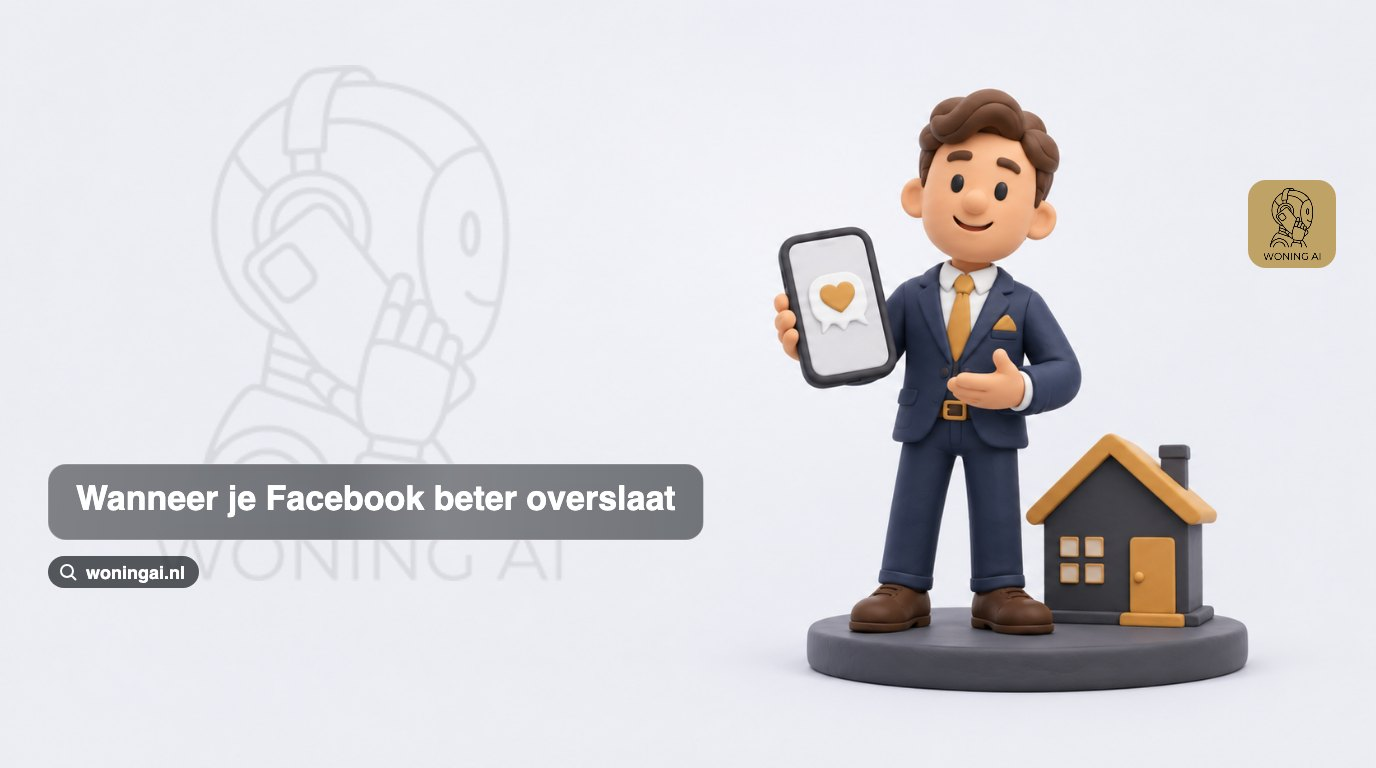
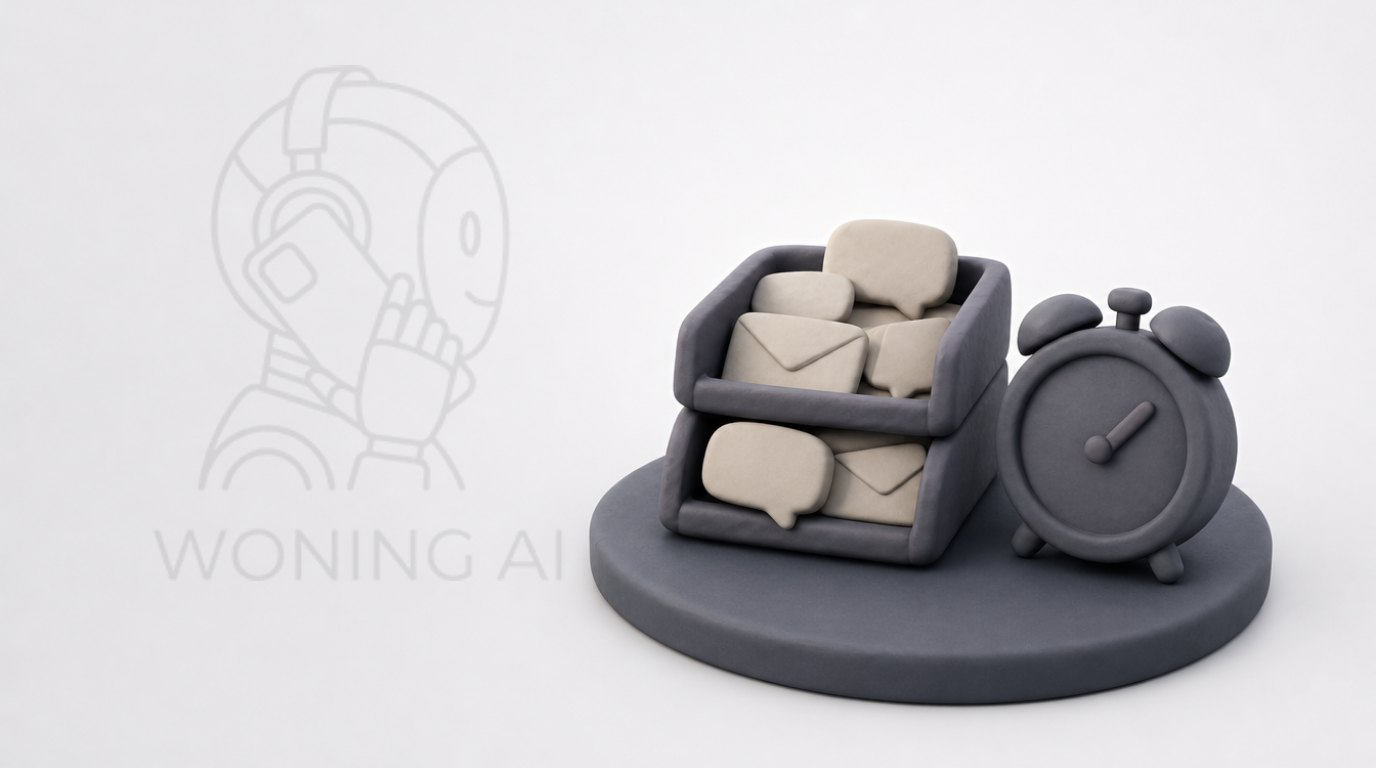
blog: own pictures for Facebook voor lokale makelaars: in 2026 nog zinvol?

Changed region(s): [[0.0312, 0.0938, 0.9375, 0.9375], [0.9062, 0.2188, 0.9688, 0.375]]

diff --git a/posts/facebook-lokaal-makelaar-oudere-verkopers.md b/posts/facebook-lokaal-makelaar-oudere-verkopers.md
@@ -96,6 +96,8 @@ Neem iemand die vraagt of het verstandig is om in het najaar te verkopen. Een an
 
 ## Messenger en reacties: waar de aanvraag blijft liggen
 
+![Messenger en reacties: waar de aanvraag blijft liggen](/images/blog/facebook-lokaal-makelaar-oudere-verkopers-2.jpg)
+
 Een oudere verkoper die 's avonds om 21:30 uur een bericht stuurt via Messenger, verwacht geen antwoord binnen 5 minuten. Wel binnen 1 werkdag. Blijft een vraag 3 dagen liggen, dan ziet de hele buurt dat in de reacties, en dat kost meer dan het bericht zelf.
 
 Stel dat je op een drukke donderdag 4 bezichtigingen hebt en 's avonds 6 berichten binnenkrijgt: 2 vragen over een woning, 1 vraag naar een waardebepaling en 3 losse reacties. Een [ai chatbot voor makelaars](/chatbot) kan de eerste vragen direct beantwoorden en bij de waardebepaling een afspraak voorstellen, zodat jij de volgende ochtend alleen de ene verkoper hoeft te bellen die er echt toe doet. Zonder hulp maak je er een vaste afspraak van: elke werkdag om 08:30 uur 15 minuten Messenger en reacties.
@@ -115,8 +117,6 @@ Het grootste probleem van een makelaar met Facebook is niet de strategie, maar d
 Schrijf de posts voor een hele maand in 1 keer, op een rustige ochtend van 1 uur. Elke verkochte woning, elke tevreden verkoper en elke vraag die je aan de telefoon krijgt, is een onderwerp. Je hoeft niets te verzinnen.
 
 ## Wanneer je Facebook beter overslaat
-
-![Wanneer je Facebook beter overslaat](/images/blog/facebook-lokaal-makelaar-oudere-verkopers-2.jpg)
 
 Facebook is geen verplichting. Voor sommige kantoren kost het meer dan het oplevert, en dan is het eerlijker om het te laten en je tijd te steken in je website of je Google-profiel. Sla Facebook over als:
 
